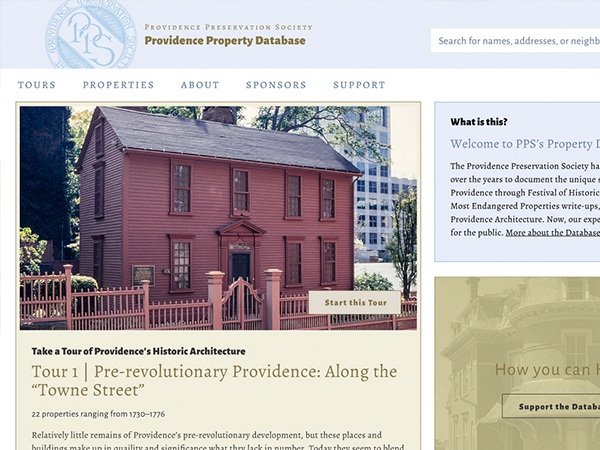
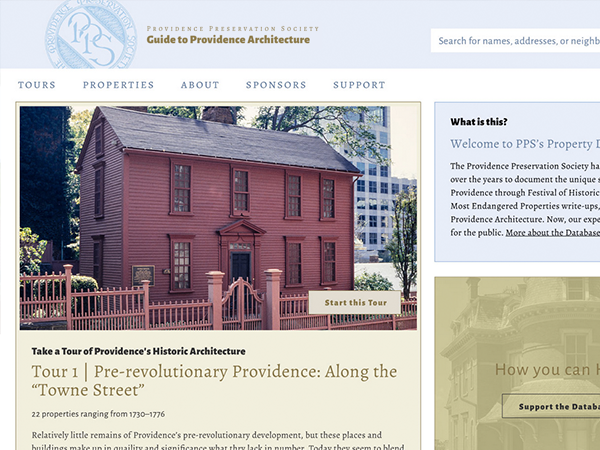
update site name – now 'Guide to Providence Architecture'

Changed region(s): [[0.24, 0.0311, 0.54, 0.1244]]

diff --git a/partials/nav.php b/partials/nav.php
@@ -2,7 +2,7 @@
 	<a href="<?php echo get_home_url(); ?>">
 		<h1>
       <span class="logo-text">Providence Preservation Society</span>
-      <span class="site-text h3">Providence Property Database</span>
+      <span class="site-text h3">Guide to Providence Architecture</span>
     </h1>
 	</a>
 	<nav role="navigation">

diff --git a/README.md b/README.md
@@ -1,4 +1,4 @@
-# PPS Property Database Website
+# PPS Guide to Providence Architecture Website
 
 ![Screenshot of Website](screenshot.png)
 
